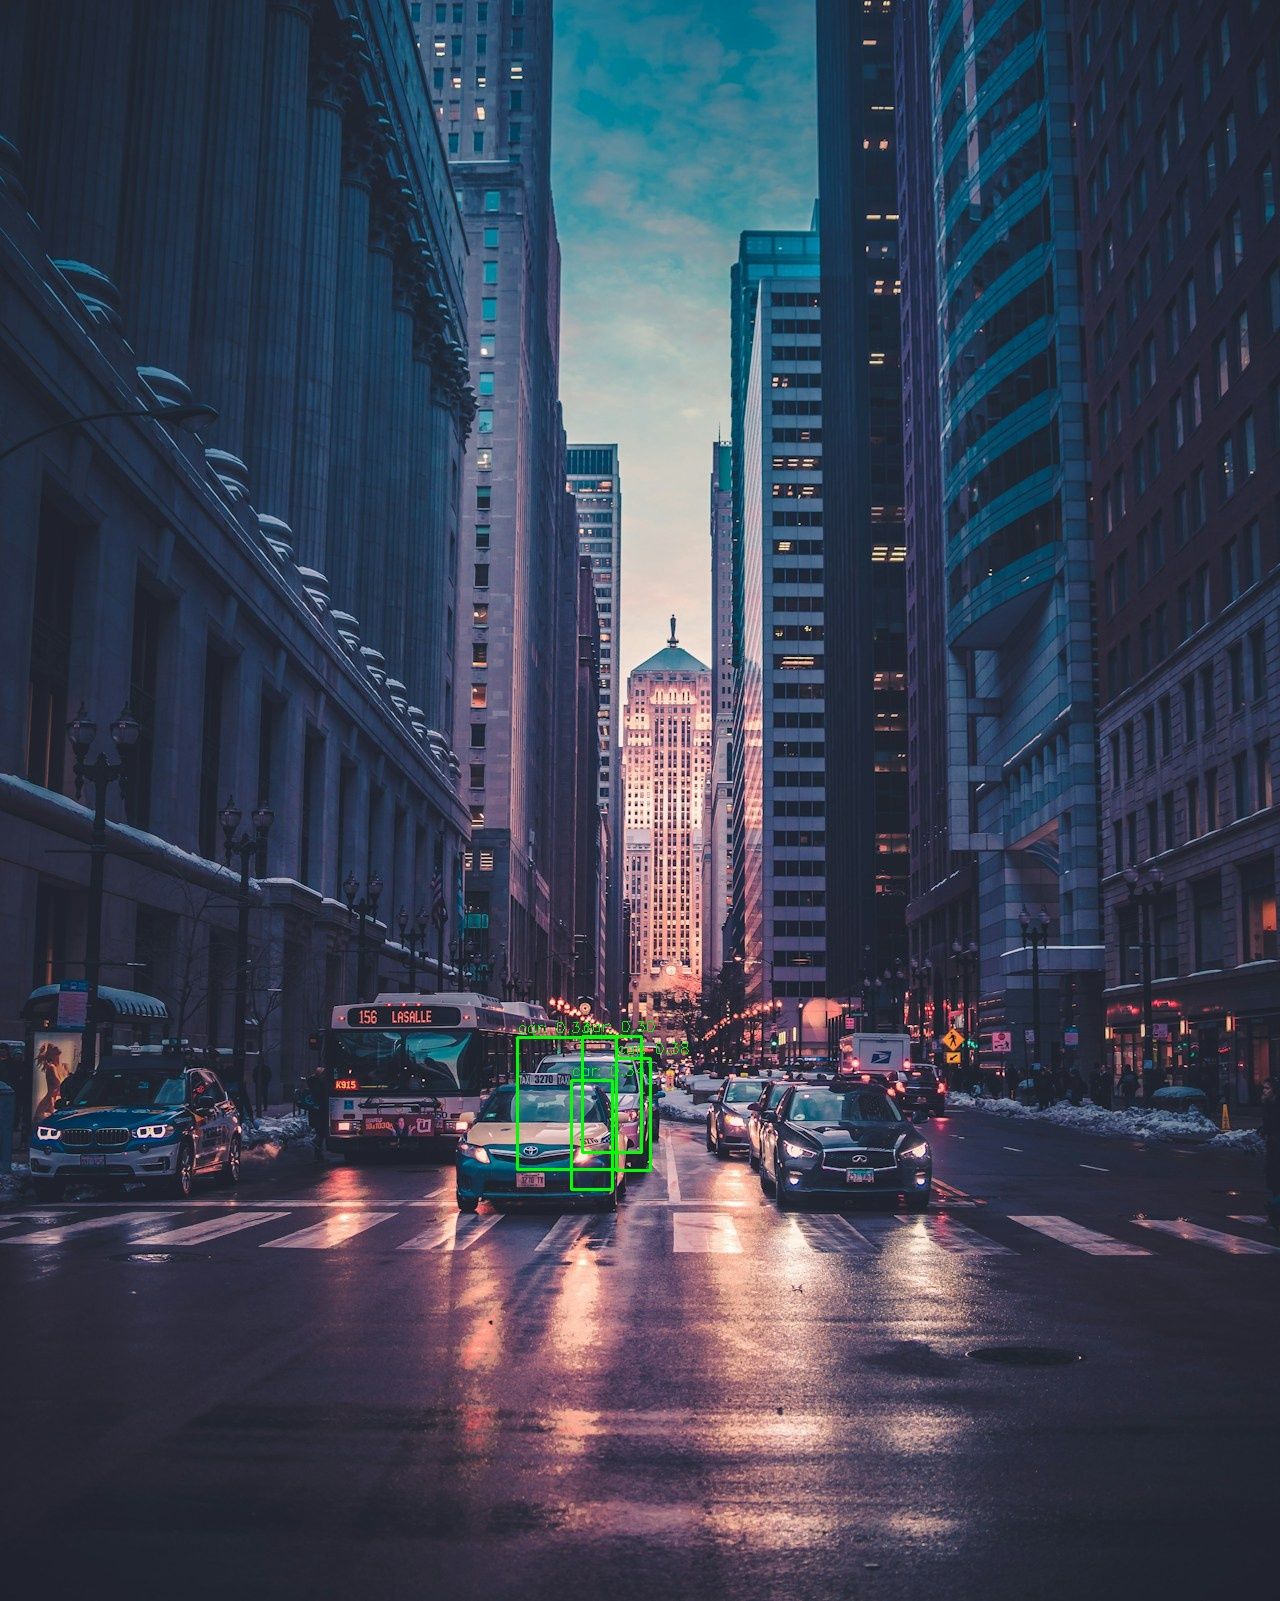
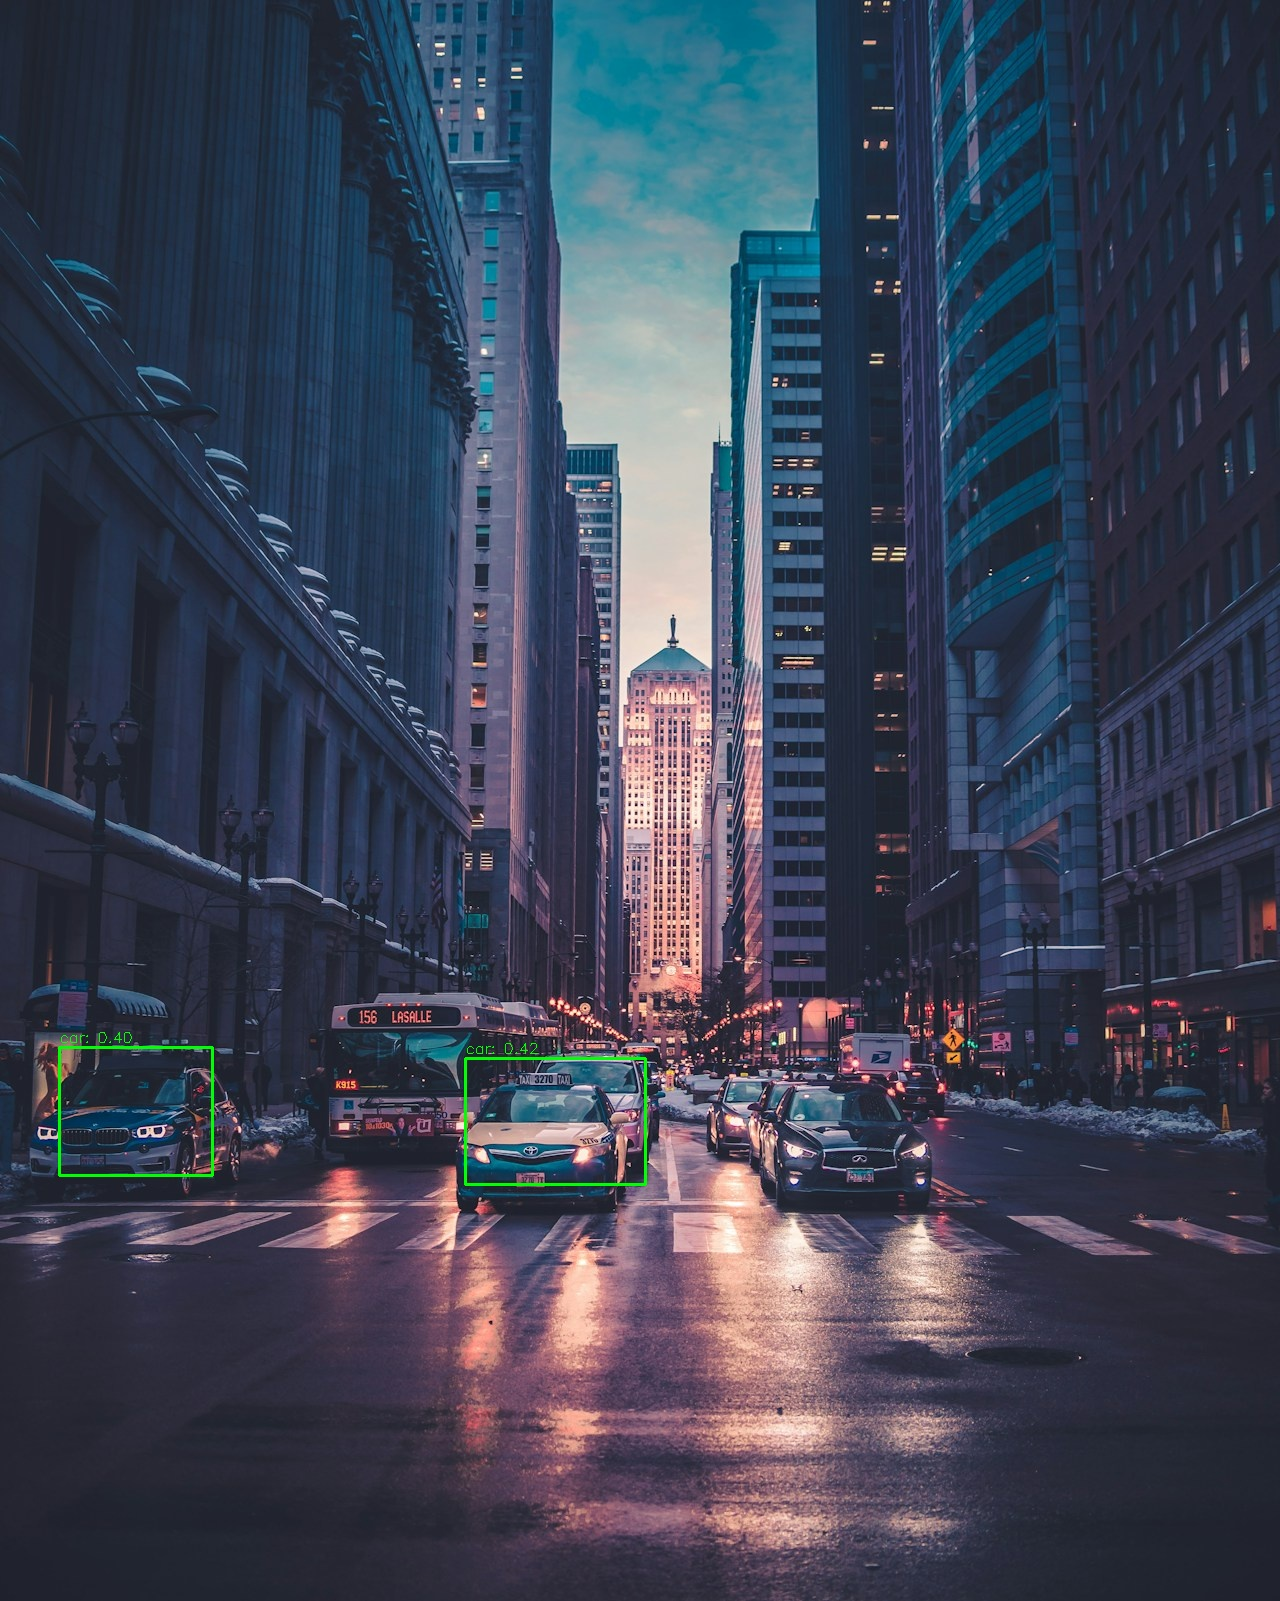
feat: Letterbox预处理替换直接拉伸缩放，修正坐标反映射

diff --git a/src/faster_rcnn_ros/src/faster_rcnn_detector.cpp b/src/faster_rcnn_ros/src/faster_rcnn_detector.cpp
@@ -103,10 +103,28 @@ void FasterRCNNDetector::loadEngine(const std::string& engine_path) {
 
 // ─────────────────────────── Inference ──────────────────────────────────────
 std::vector<Detection> FasterRCNNDetector::infer(const cv::Mat& image, float threshold) {
-    // ── 1. 预处理：resize + BGR→RGB + /255.0 + CHW 排列 ──────────────────
-    //    cv::dnn::blobFromImage 输出连续内存 (1, 3, H, W) float，即 CHW
+    // ── 1. Letterbox 预处理：等比缩放 + 灰边填充，保持宽高比 ──────────────
+    // 1a. 计算统一缩放比，取高/宽方向的最小值以保证图像完整放入网络输入
+    float scale = std::min(
+        static_cast<float>(input_h_) / static_cast<float>(image.rows),
+        static_cast<float>(input_w_) / static_cast<float>(image.cols)
+    );
+    int new_w = static_cast<int>(std::round(image.cols * scale));
+    int new_h = static_cast<int>(std::round(image.rows * scale));
+
+    // 1b. 等比缩放
+    cv::Mat resized;
+    cv::resize(image, resized, cv::Size(new_w, new_h), 0, 0, cv::INTER_LINEAR);
+
+    // 1c. 创建 letterbox 画布，用 114 灰填充（YOLO/DNN 常用中性值）
+    int pad_x = (input_w_ - new_w) / 2;
+    int pad_y = (input_h_ - new_h) / 2;
+    cv::Mat canvas(input_h_, input_w_, CV_8UC3, cv::Scalar(114, 114, 114));
+    resized.copyTo(canvas(cv::Rect(pad_x, pad_y, new_w, new_h)));
+
+    // 1d. BGR→RGB + /255.0 + CHW 排列（画布已是目标分辨率，无二次缩放）
     cv::Mat blob;
-    cv::dnn::blobFromImage(image, blob,
+    cv::dnn::blobFromImage(canvas, blob,
                            1.0 / 255.0,
                            cv::Size(input_w_, input_h_),
                            cv::Scalar(),
@@ -148,20 +166,27 @@ std::vector<Detection> FasterRCNNDetector::infer(const cv::Mat& image, float thr
     CHECK_CUDA(cudaMemcpy(h_boxes.data(),  boxes_alloc_->buffer,
                           n_dets * 4 * sizeof(float), cudaMemcpyDeviceToHost));
 
-    // ── 6. 坐标缩放：从 input 分辨率映射回原图 ───────────────────────────
-    const float sx = static_cast<float>(image.cols) / input_w_;
-    const float sy = static_cast<float>(image.rows) / input_h_;
-
+    // ── 6. 坐标反变换：letterbox 网络坐标 → 原图坐标 ────────────────────
+    //    网络输出坐标 → 减去 padding → 除以缩放比 → 截断到原图范围
     std::vector<Detection> detections;
     detections.reserve(n_dets);
 
     for (int i = 0; i < n_dets; ++i) {
         if (h_scores[i] < threshold) continue;
 
-        int x1 = std::max(0, std::min(static_cast<int>(h_boxes[i*4+0] * sx), image.cols - 1));
-        int y1 = std::max(0, std::min(static_cast<int>(h_boxes[i*4+1] * sy), image.rows - 1));
-        int x2 = std::max(0, std::min(static_cast<int>(h_boxes[i*4+2] * sx), image.cols - 1));
-        int y2 = std::max(0, std::min(static_cast<int>(h_boxes[i*4+3] * sy), image.rows - 1));
+        auto unmap_x = [&](float cx) -> int {
+            return std::max(0, std::min(
+                static_cast<int>((cx - pad_x) / scale), image.cols - 1));
+        };
+        auto unmap_y = [&](float cy) -> int {
+            return std::max(0, std::min(
+                static_cast<int>((cy - pad_y) / scale), image.rows - 1));
+        };
+
+        int x1 = unmap_x(h_boxes[i*4+0]);
+        int y1 = unmap_y(h_boxes[i*4+1]);
+        int x2 = unmap_x(h_boxes[i*4+2]);
+        int y2 = unmap_y(h_boxes[i*4+3]);
 
         if (x2 <= x1 || y2 <= y1) continue;
 
